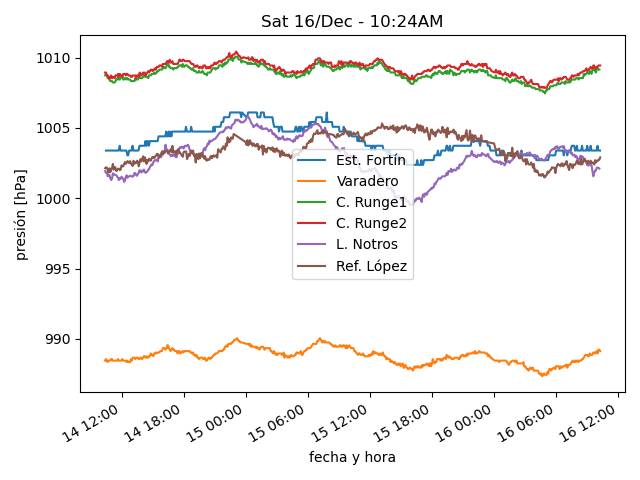
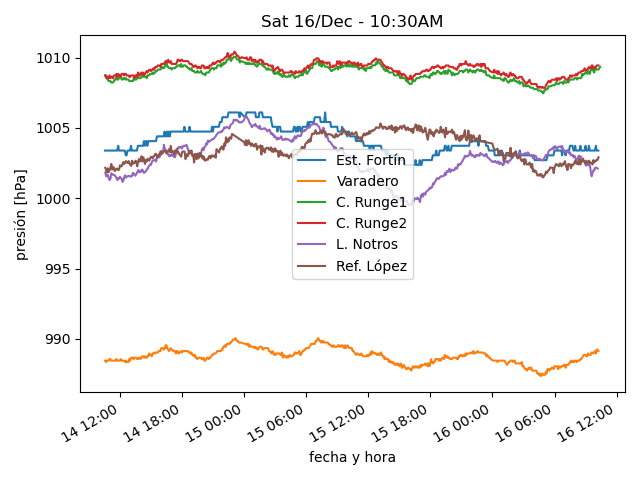
actualiza datos

diff --git a/estaciones/estacion3.html b/estaciones/estacion3.html
@@ -18,32 +18,32 @@
     </tr>
     <tr>
      <td class="stats_data">
-      10:09AM
+      10:24AM
      </td>
     </tr>
     <tr>
      <td class="stats_data">
-      11.9
+      11.2
      </td>
     </tr>
     <tr>
      <td class="stats_data">
-      4.8
+      4.5
      </td>
     </tr>
     <tr>
      <td class="stats_data">
-      61.9
+      63.4
      </td>
     </tr>
     <tr>
      <td class="stats_data">
-      997.43
+      997.63
      </td>
     </tr>
     <tr>
      <td class="stats_data">
-      11.8/17.8 NNW
+      12.3/17.2 NNW
      </td>
     </tr>
     <tr>
@@ -53,12 +53,12 @@
     </tr>
     <tr>
      <td class="stats_data">
-      11.0
+      10.0
      </td>
     </tr>
     <tr>
      <td class="stats_data">
-      1037.2
+      931.8
      </td>
     </tr>
    </tbody>
